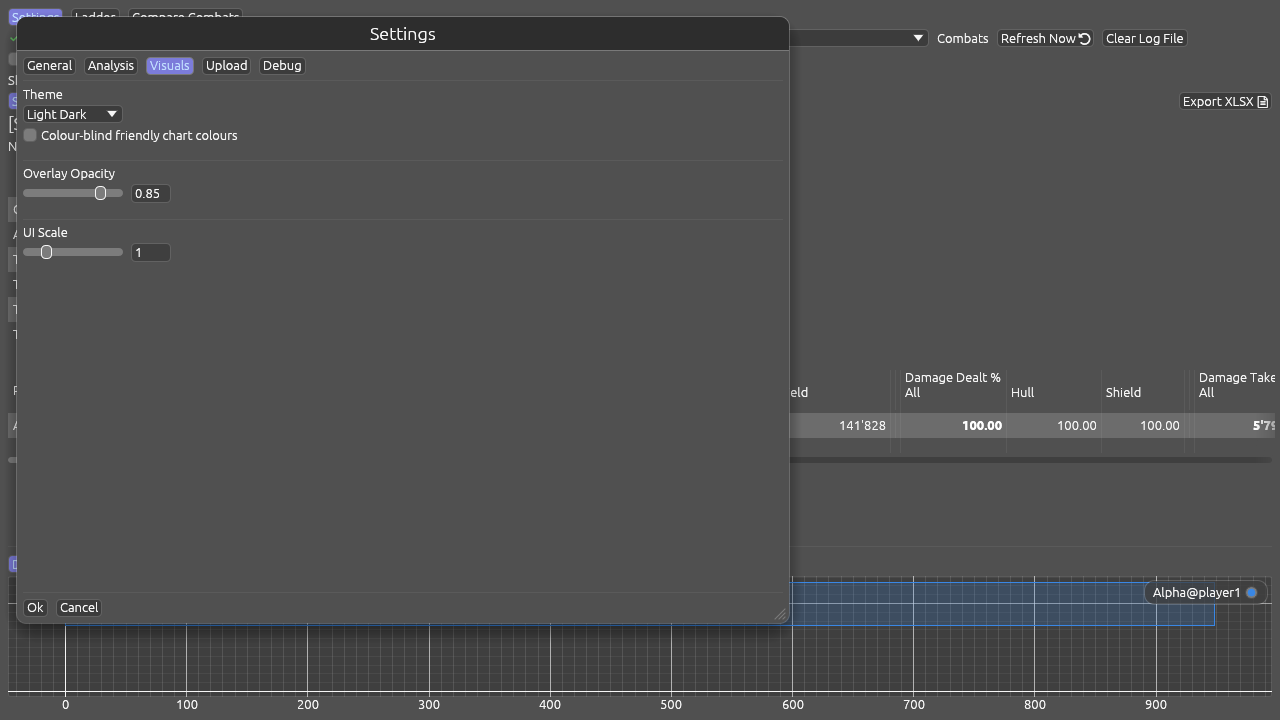
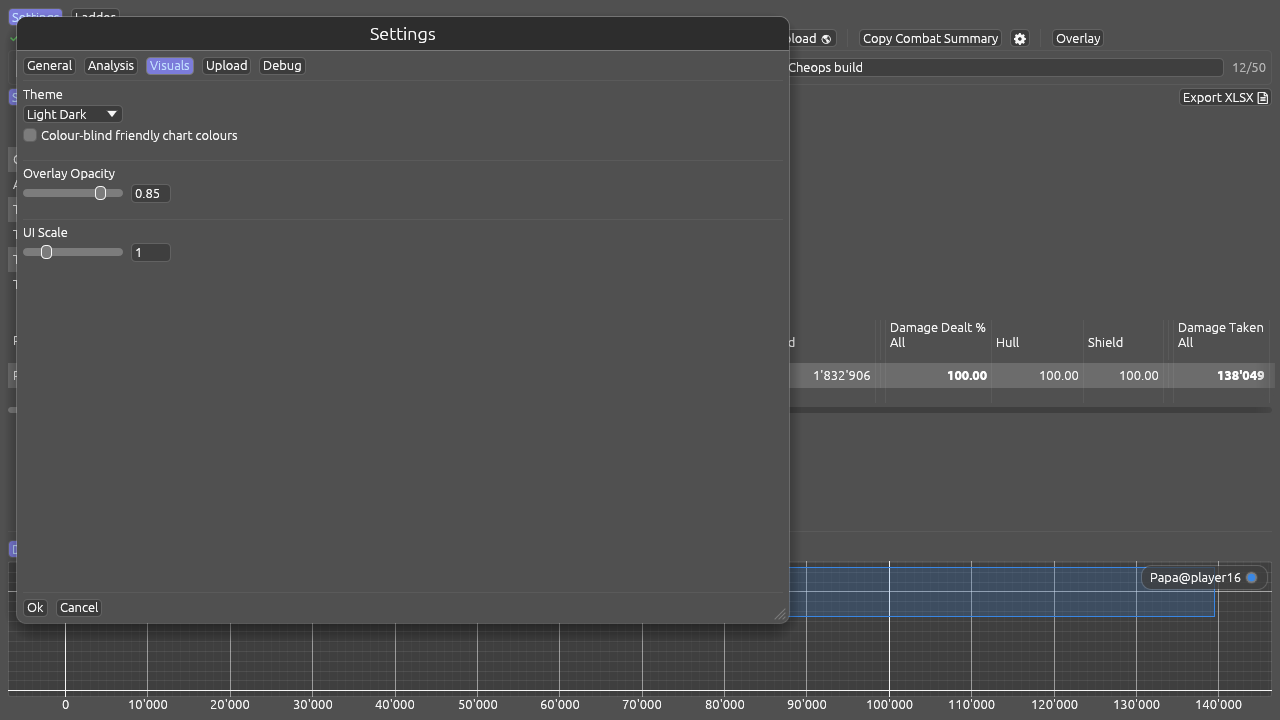
Retake the documentation pictures for the new window
Every coordinate in demo/screenshots.sh named something that has moved:
the combats drop-down became a side panel, the toolbar grew a second row
and the tabs slid up four pixels, and the compare picker is gone. The
script now opens a fight the way a reader does — the panel, then a
double-click — and the sections were run one at a time, each picture
looked at before it was copied in.

Two of the pictures showed text that was no longer true, so the text
went rather than the picture:

  * the Debug tab claimed a change there needs a restart. It has taken
    effect at Ok since 2.3.0 (see `logging::apply`).
  * the Upload tab called the program CLA.

Also added: a picture of the name-and-note box above the tabs, cropped
to the strip it lives in, replacing one of the old drop-down.

diff --git a/src/app/settings/debug.rs b/src/app/settings/debug.rs
@@ -8,9 +8,7 @@ pub struct DebugTab {}
 impl DebugTab {
     pub fn show(&mut self, modified_settings: &mut Settings, ui: &mut Ui) {
         ui.label("App Log Settings");
-        ui.label(
-            "Any change to these settings requires a restart of the application to take affect.",
-        );
+        ui.label("These settings take effect as soon as this window is closed with Ok.");
         ui.checkbox(&mut modified_settings.debug.enable_log, "Enable Log");
         ComboBox::from_label("Log Filter Level")
             .selected_text(modified_settings.debug.log_level_filter.as_str())

diff --git a/src/app/settings/upload.rs b/src/app/settings/upload.rs
@@ -7,7 +7,7 @@ pub struct UploadTab {}
 
 impl UploadTab {
     pub fn show(&mut self, modified_settings: &mut Settings, ui: &mut Ui) {
-        ui.label("CLA can upload logs to the OSCR server (a different combat log parser) for comparing records with other players.");
+        ui.label("STO-CLARE can upload logs to the OSCR server (a different combat log parser) for comparing records with other players.");
         ui.add_space(20.0);
         ui.label("OSCR Upload URL:");
         ui.text_edit_singleline(&mut modified_settings.upload.oscr_url);

diff --git a/MANUAL.md b/MANUAL.md
@@ -118,9 +118,12 @@ description of your own.
    tells you what that run was.
 
 There is nothing to save. The description is kept with your settings and stays
-with that combat, and it shows up in the list's **Note** column:
+with that combat:
 
-![A combat with a description of your own](images/combat-note.png)
+![The box above the tabs: which fight is open, and what you called it](images/combat-note.png)
+
+It shows up in the list's **Note** column as well, so a whole evening reads back
+by what you were flying rather than by the clock.
 
 The counter next to the field (`0/50`) tells you how much room is left. Clearing
 the text removes the description again.
@@ -492,7 +495,7 @@ from 25 rows to 9. Turned up, two rows are left — the antiproton beams one bui
 flew and the phaser group the other leaned on. That is the difference between a
 rainbow build and a single-flavour one, without reading a single number.
 
-![Another five runs of one patrol, at a 3% spread: 13 of the 24 rows are left, and the rows missing from some of the runs say so](images/compare-differences.png)
+![Another five runs of one patrol, at a 3% spread: 19 of the 28 rows are left, and the rows missing from some of the runs say so](images/compare-differences.png)
 
 The Total above follows both of them: it counts the rows that are ticked **and**
 on screen. Narrow the table to one damage type and the Total is that type's;

diff --git a/CHANGELOG.md b/CHANGELOG.md
@@ -17,8 +17,10 @@
 - the run a comparison is of is named where it is ticked, so the line above the table counting how many runs were showing somebody else is gone — the **Player** column says it, per run
 - the magnifier in the Ladder window is spent once its run is in your list, and no longer throws away a fetch already running when pressed twice
 - a run fetched from the ladder is not offered for upload — it is already on the ladder, and it is somebody else's fight
+- the Upload settings call the program by its name
 
 ### Fixes
+- the Debug settings no longer ask you to start the program again. Logging has taken effect the moment you press Ok since 2.3.0; the line above the switch still said otherwise
 - the magnifier in the Ladder window opens the run on the row you pressed. A fight entered into several of the ladder's tables is shown once, and the button was reading its run from the list before that folding — so it opened a different run than the row named, or one already on screen, in which case nothing happened at all
 - comparing a run from the ladder against several of your own no longer loses some of them. Which ones went missing depended on the order you picked them in
 - the hourglass in the toolbar comes down when the program is done. It could stay up for good after a refresh nothing had asked for
